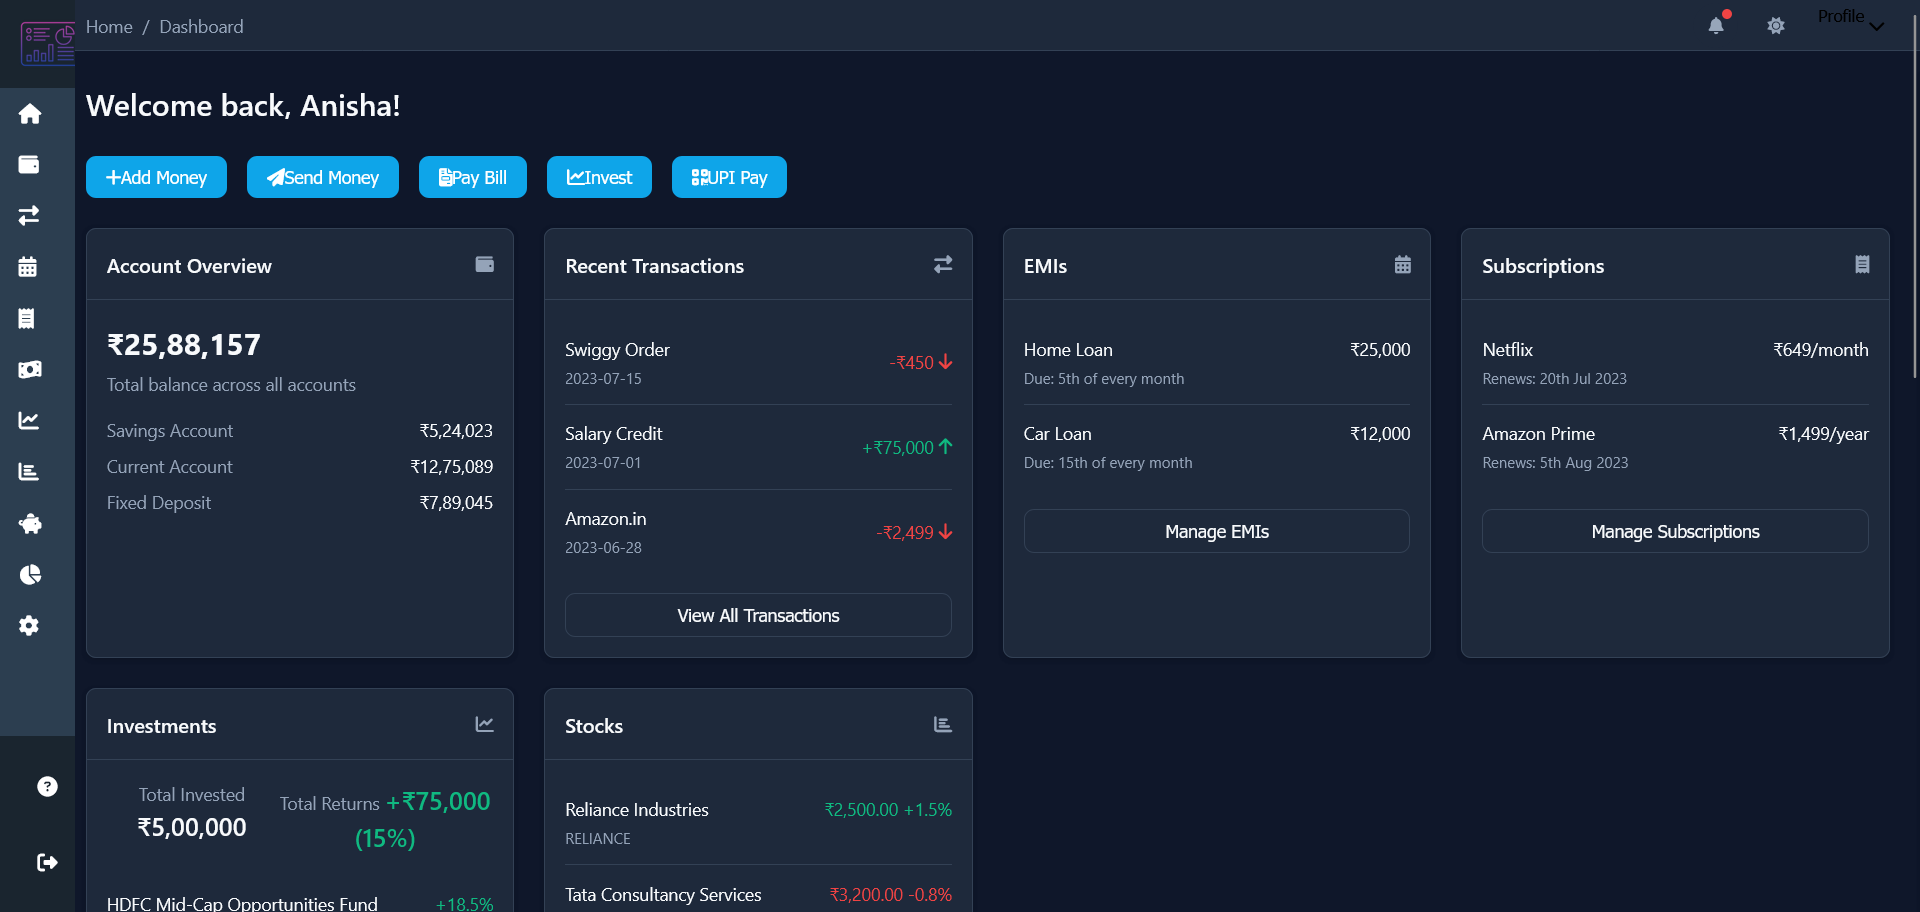
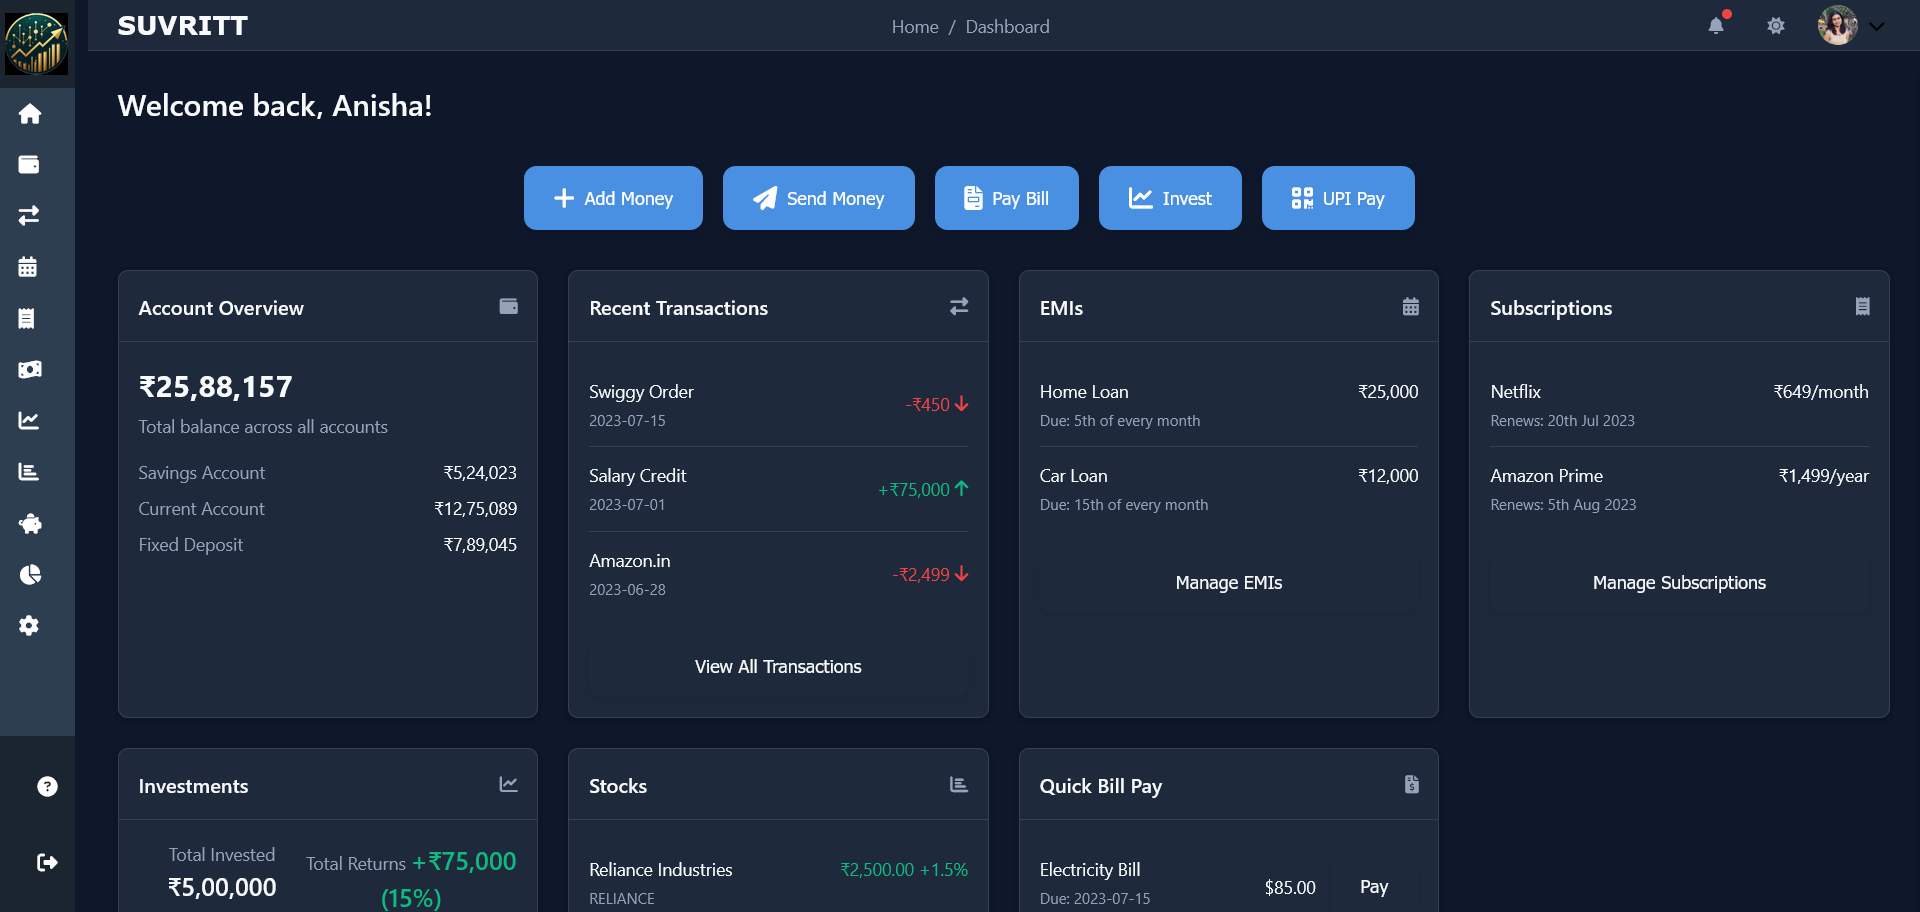
fg

diff --git a/index.html b/index.html
@@ -3,7 +3,7 @@
 <head>
   <meta charset="UTF-8">
   <meta name="viewport" content="width=device-width, initial-scale=1.0">
-  <title>FinPro - Your Financial Companion</title>
+  <title>SUVRITT</title>
   <link rel="stylesheet" href="styles.css">
   <link rel="stylesheet" href="https://cdnjs.cloudflare.com/ajax/libs/font-awesome/6.4.0/css/all.min.css">
   <script src="https://cdn.jsdelivr.net/npm/chart.js"></script>
@@ -38,140 +38,6 @@
   </aside>
   
   <!-- CSS -->
-  
-  <style>
-    /* Sidebar styles */
-    
-    .sidebar {
-      width: 60px;
-      background: #2c3e50;
-      color: white;
-      height: 100vh;
-      transition: all 0.3s ease-in-out;
-      overflow: hidden;
-      position: fixed;
-      display: flex;
-      flex-direction: column;
-    }
-
-    .sidebar:hover {
-      width: 230px;
-    }
-
-    /* Sidebar Header */
-    .sidebar-header {
-      height: 70px;
-      display: flex;
-      align-items: center;
-     padding-left: 4px;
-      background: #1a252f;
-      position: sticky;
-      top: 0;
-      z-index: 10;
-      overflow: hidden;
-    }
-
-    /* Logo */
-    .sidebar-logo {
-    width: 50px;
-      height: 50px;
-      transition: all 0.3s ease-in-out;
-    }
-
-    .sidebar:hover .sidebar-logo {
-      width: 40px;
-      height: 40px;
-    }
-
-    .logo-text {
-      font-size: 18px;
-      margin-left: 10px;
-      opacity: 0;
-      transition: opacity 0.3s;
-      white-space: nowrap;
-    }
-
-    .sidebar:hover .logo-text {
-      opacity: 1;
-    }
-
-    /* Navigation Items */
-    .sidebar-nav ul li a span,
-    .sidebar-footer ul li a span {
-      opacity: 0;
-      transition: opacity 0.2s;
-      white-space: nowrap;
-    }
-
-    .sidebar:hover .sidebar-nav ul li a span,
-    .sidebar:hover .sidebar-footer ul li a span {
-      opacity: 1;
-    }
-
-    .sidebar-nav ul li a,
-    .sidebar-footer ul li a {
-      color: white;
-      text-decoration: none;
-      display: flex;
-      align-items: center;
-      font-size: 14px;
-      padding: 10px 15px;
-    }
-
-    .sidebar-nav ul li a i,
-    .sidebar-footer ul li a i {
-      font-size: 16px;
-      width: 25px;
-      text-align: center;
-    }
- /* Footer Styling */
-    .sidebar-footer {
-      margin-top: auto;
-      background: #1a252f;
-      position: sticky;
-      bottom: 0;
-      padding: 10px 0;
-    }
-
-    .sidebar-footer ul {
-      list-style: none;
-      padding: 0;
-      margin: 0;
-    }
-
-    .sidebar-footer ul li {
-      padding: 10px 15px;
-    }
-
-    .sidebar-footer ul li a {
-      color: white;
-      text-decoration: none;
-      display: flex;
-      align-items: center;
-      font-size: 14px;
-    }
-
-    .sidebar-footer ul li a i {
-      font-size: 16px;
-      width: 25px;
-      text-align: center;
-    }
-    /* Hover Effects */
-    .sidebar-nav ul li:hover,
-    .sidebar-footer ul li:hover {
-      background: #34495e;
-    }
-
-    /* Scrollbar */
-    .sidebar-nav::-webkit-scrollbar {
-      width: 5px;
-    }
-
-    .sidebar-nav::-webkit-scrollbar-thumb {
-      background: #95a5a6;
-    }
-    
-  </style>
   
   <!-- JavaScript -->
   <script>
@@ -939,7 +805,9 @@
       </div>
     </div>
   </div>
-
+<div>
+  
+</div>
   <script src="script.js"></script>
 </body>
 </html>

diff --git a/styles.css b/styles.css
@@ -221,6 +221,136 @@
     font-weight: 600;
     margin-bottom: 1.5rem;
   }
+  /* Sidebar styles */
+    
+  .sidebar {
+    width: 60px;
+    background: #2c3e50;
+    color: white;
+    height: 100vh;
+    transition: all 0.3s ease-in-out;
+    overflow: hidden;
+    position: fixed;
+    display: flex;
+    flex-direction: column;
+  }
+
+  .sidebar:hover {
+    width: 230px;
+  }
+
+  /* Sidebar Header */
+  .sidebar-header {
+    height: 70px;
+    display: flex;
+    align-items: center;
+   padding-left: 4px;
+    background: #1a252f;
+    position: sticky;
+    top: 0;
+    z-index: 10;
+    overflow: hidden;
+  }
+
+  /* Logo */
+  .sidebar-logo {
+  width: 50px;
+    height: 50px;
+    transition: all 0.3s ease-in-out;
+  }
+
+  .sidebar:hover .sidebar-logo {
+    width: 40px;
+    height: 40px;
+  }
+
+  .logo-text {
+    font-size: 18px;
+    margin-left: 10px;
+    opacity: 0;
+    transition: opacity 0.3s;
+    white-space: nowrap;
+  }
+
+  .sidebar:hover .logo-text {
+    opacity: 1;
+  }
+
+  /* Navigation Items */
+  .sidebar-nav ul li a span,
+  .sidebar-footer ul li a span {
+    opacity: 0;
+    transition: opacity 0.2s;
+    white-space: nowrap;
+  }
+
+  .sidebar:hover .sidebar-nav ul li a span,
+  .sidebar:hover .sidebar-footer ul li a span {
+    opacity: 1;
+  }
+
+  .sidebar-nav ul li a,
+  .sidebar-footer ul li a {
+    color: white;
+    text-decoration: none;
+    display: flex;
+    align-items: center;
+    font-size: 14px;
+    padding: 10px 15px;
+  }
+
+  .sidebar-nav ul li a i,
+  .sidebar-footer ul li a i {
+    font-size: 16px;
+    width: 25px;
+    text-align: center;
+  }
+/* Footer Styling */
+  .sidebar-footer {
+    margin-top: auto;
+    background: #1a252f;
+    position: sticky;
+    bottom: 0;
+    padding: 10px 0;
+  }
+
+  .sidebar-footer ul {
+    list-style: none;
+    padding: 0;
+    margin: 0;
+  }
+
+  .sidebar-footer ul li {
+    padding: 10px 15px;
+  }
+
+  .sidebar-footer ul li a {
+    color: white;
+    text-decoration: none;
+    display: flex;
+    align-items: center;
+    font-size: 14px;
+  }
+
+  .sidebar-footer ul li a i {
+    font-size: 16px;
+    width: 25px;
+    text-align: center;
+  }
+  /* Hover Effects */
+  .sidebar-nav ul li:hover,
+  .sidebar-footer ul li:hover {
+    background: #34495e;
+  }
+
+  /* Scrollbar */
+  .sidebar-nav::-webkit-scrollbar {
+    width: 5px;
+  }
+
+  .sidebar-nav::-webkit-scrollbar-thumb {
+    background: #95a5a6;
+  }
   
   /* Quick Actions */
   .quick-actions {
@@ -244,8 +374,12 @@
     border: 1px solid var(--border-color);
     box-shadow: var(--shadow);
     overflow: hidden;
+    transition: transform 0.2s ease-in-out, box-shadow 0.2s ease-in-out;
   }
-  
+  .card:hover {
+    transform: translateY(-5px);
+    box-shadow: 0px 10px 20px rgba(0, 0, 0, 0.15);
+  }
   .card.full-width {
     grid-column: 1 / -1;
   }

diff --git a/landing.html b/landing.html
@@ -3,7 +3,7 @@
 <head>
     <meta charset="UTF-8">
     <meta name="viewport" content="width=device-width, initial-scale=1.0">
-    <title>FinTrack - Your Financial Companion</title>
+    <title>SUVRITT - Your Financial Companion</title>
     <link href="https://cdn.jsdelivr.net/npm/tailwindcss@2.2.19/dist/tailwind.min.css" rel="stylesheet">
     <link rel="stylesheet" href="https://cdnjs.cloudflare.com/ajax/libs/font-awesome/6.0.0-beta3/css/all.min.css">
     <link rel="stylesheet" href="landing.css">
@@ -55,8 +55,8 @@
         <div class="max-w-7xl mx-auto px-4 sm:px-6 lg:px-8 flex flex-col md:flex-row items-center">
             <div class="md:w-1/2 mb-10 md:mb-0 md:pr-10">
                 <h1 class="text-4xl sm:text-5xl md:text-6xl font-extrabold text-white leading-tight mb-6">
-                    <span class="block">Take Control of</span>
-                    <span class="block text-transparent bg-clip-text bg-gradient-to-r from-purple-400 via-pink-500 to-red-500">Your Financial Future</span>
+                    <span class="block">Single Platform for</span>
+                    <span class="block text-transparent bg-clip-text bg-gradient-to-r from-purple-400 via-pink-500 to-red-500">All Your finances</span>
                 </h1>
                 <p class="text-xl text-gray-300 mb-8">
                     SUVRITT helps you track, manage, and optimize your finances with powerful tools and beautiful visualizations.

diff --git a/accounts.html b/accounts.html
@@ -3,7 +3,7 @@
 <head>
     <meta charset="UTF-8">
     <meta name="viewport" content="width=device-width, initial-scale=1.0">
-    <title>Account Management - FinTrack</title>
+    <title>Account Management - SUVRITT</title>
     <link href="accounts.css" rel="stylesheet">
     <link href="https://cdn.jsdelivr.net/npm/tailwindcss@2.2.19/dist/tailwind.min.css" rel="stylesheet">
     <link rel="stylesheet" href="https://cdnjs.cloudflare.com/ajax/libs/font-awesome/6.0.0-beta3/css/all.min.css">
@@ -14,7 +14,7 @@
         <!-- Sidebar -->
         <aside class="sidebar">
             <div class="sidebar-header">
-              <img src="logo.png" alt="Taka Nei Logo" class="sidebar-logo">
+              <img src="logo2.png" alt="Taka Nei Logo" class="sidebar-logo">
             </div>
             <nav class="sidebar-nav">
               <ul>
@@ -64,7 +64,6 @@
               height: 70px;
               display: flex;
               align-items: center;
-              padding: 15px;
               background: #1a252f;
               position: sticky;
               top: 0;

diff --git a/transactions.html b/transactions.html
@@ -3,7 +3,7 @@
 <head>
     <meta charset="UTF-8">
     <meta name="viewport" content="width=device-width, initial-scale=1.0">
-    <title>Transactions - FinPro</title>
+    <title>Transactions - SUVRITT</title>
     <link rel="stylesheet" href="https://cdnjs.cloudflare.com/ajax/libs/font-awesome/6.4.0/css/all.min.css">
     <link rel="stylesheet" href="styles.css">
     <link rel="stylesheet" href="transactions.css">
@@ -14,7 +14,7 @@
     
     <aside class="sidebar">
         <div class="sidebar-header">
-          <img src="logo.png" alt="Taka Nei Logo" class="sidebar-logo">
+          <img src="logo2.png" alt="Taka Nei Logo" class="sidebar-logo">
         </div>
         <nav class="sidebar-nav">
           <ul>
@@ -64,7 +64,6 @@
           height: 70px;
           display: flex;
           align-items: center;
-          padding: 15px;
           background: #1a252f;
           position: sticky;
           top: 0;

diff --git a/login.html b/login.html
@@ -3,7 +3,7 @@
 <head>
     <meta charset="UTF-8">
     <meta name="viewport" content="width=device-width, initial-scale=1.0">
-    <title>Login - FinTrack</title>
+    <title>Login - SUVRITT</title>
     <link href="https://cdn.jsdelivr.net/npm/tailwindcss@2.2.19/dist/tailwind.min.css" rel="stylesheet">
     <link rel="stylesheet" href="https://cdnjs.cloudflare.com/ajax/libs/font-awesome/6.0.0-beta3/css/all.min.css">
     <link rel="stylesheet" href="css/auth.css">
